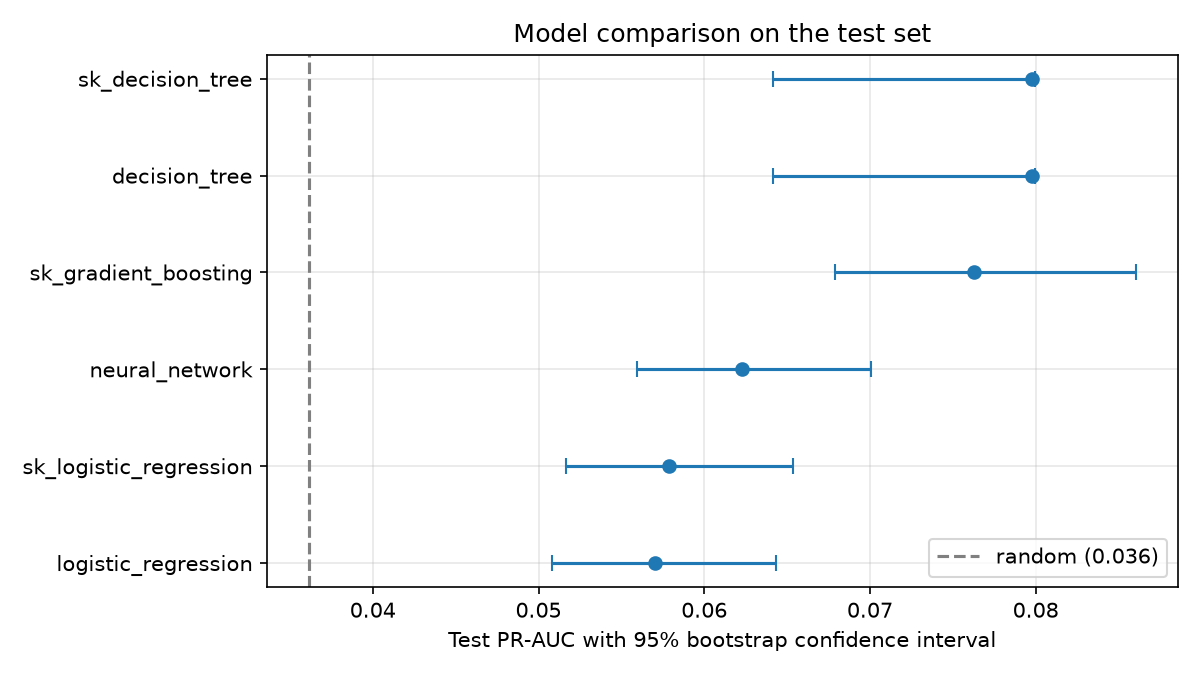
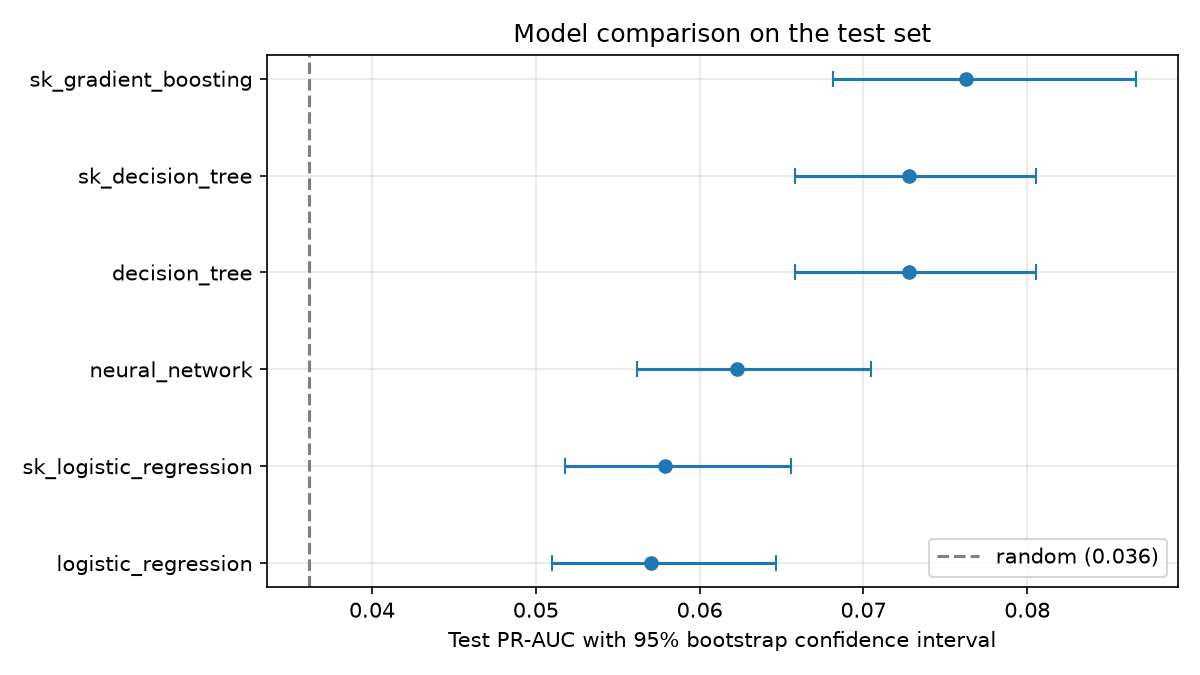
fix(metrics): tie-aware average precision; docs: evaluation report

diff --git a/src/olist_ml/evaluation/metrics.py b/src/olist_ml/evaluation/metrics.py
@@ -14,11 +14,14 @@ def roc_auc(y: np.ndarray, scores: np.ndarray) -> float:
 
 
 def average_precision(y: np.ndarray, scores: np.ndarray) -> float:
-    """Area under the precision-recall curve: mean precision at the rank of each true positive."""
-    y = np.asarray(y).astype(bool)
-    hits = y[np.argsort(-np.asarray(scores, dtype=float), kind="mergesort")]
-    precision_at_k = np.cumsum(hits) / np.arange(1, len(hits) + 1)
-    return float(precision_at_k[hits].sum() / hits.sum())
+    """Area under the precision-recall step curve: AP = sum_n (R_n - R_(n-1)) * P_n.
+
+    Computed over distinct thresholds, so tied scores are treated as one group and the
+    result does not depend on the arbitrary order of tied rows.
+    """
+    tp, fp, _, n_pos, _ = _ranked_counts(y, scores)
+    precision, recall = tp / (tp + fp), tp / n_pos
+    return float(np.sum(np.diff(np.r_[0.0, recall]) * precision))
 
 
 def precision_recall_f1(y: np.ndarray, y_pred: np.ndarray) -> tuple[float, float, float]:

diff --git a/tests/test_models.py b/tests/test_models.py
@@ -103,3 +103,9 @@ def test_logistic_regression_matches_scikit_learn():
     sk.fit(X, y, sample_weight=balanced_weights(y))
     assert np.allclose(ours.w_, sk.coef_[0], atol=1e-3)
     assert abs(ours.b_ - sk.intercept_[0]) < 1e-3
+    
+def test_average_precision_handles_ties_like_scikit_learn():
+    rng = np.random.default_rng(6)
+    y = (rng.random(1000) < 0.1).astype(int)
+    scores = np.round(rng.random(1000) + 0.3 * y, 1)   # few distinct values: many ties
+    assert np.isclose(average_precision(y, scores), average_precision_score(y, scores))

diff --git a/docs/09_evaluation.md b/docs/09_evaluation.md
@@ -1,0 +1,103 @@
+# 09 — Evaluation
+
+Script: `scripts/evaluate.py`. Files: `src/olist_ml/evaluation/evaluator.py`,
+`src/olist_ml/evaluation/metrics.py`, `src/olist_ml/models/sklearn_adapter.py`.
+Raw results: `docs/figures/evaluation_results.csv`.
+
+## Protocol
+- Models and the decision threshold are **selected on validation** (March–May 2018) and
+  reported once on **test** (June–August 2018), which is never used for any choice.
+- Uncertainty: **paired bootstrap** over the test set (1,000 resamples with replacement). The same
+  resamples are applied to every model, so the confidence interval of a *difference* between two
+  models can be computed; if it excludes 0, the difference is significant.
+- scikit-learn models are wrapped in an **Adapter** (`SklearnModel`) so they share the `BaseModel`
+  interface and are trained with the same balanced sample weights.
+
+## Verification against scikit-learn
+- Logistic regression from scratch matches scikit-learn's coefficients and intercept (tolerance 10⁻³).
+  The objectives are equal when `C = 1 / (λ·S)`, where S is the sum of sample weights.
+- The from-scratch decision tree gives exactly the same predictions as `DecisionTreeClassifier`
+  with the same depth and leaf size (identical PR-AUC and ROC-AUC on validation and test).
+- ROC-AUC and PR-AUC from scratch match scikit-learn, including data with tied scores.
+
+## A bug found by the evaluation
+The first bootstrap gave the decision tree a test PR-AUC of 0.080 with a 95% interval of
+[0.064, 0.080]: the point estimate sat exactly on the upper bound. The tree outputs only 125
+distinct scores, and the first implementation of average precision ordered tied rows by their
+position in the file, so the result depended on an arbitrary order. Average precision is now
+computed over distinct thresholds, `AP = Σₙ (Rₙ − Rₙ₋₁) Pₙ`, as in scikit-learn, and a test with
+heavily tied scores was added. The tree's corrected scores: validation 0.184 → 0.168,
+test 0.080 → 0.073.
+
+## Results
+
+| Model | Val PR-AUC | Test PR-AUC (95% CI) | Test ROC-AUC |
+|---|---:|---:|---:|
+| Random baseline | 0.101 | 0.036 | 0.500 |
+| Neural network (scratch) | **0.213** | 0.062 [0.056, 0.070] | 0.695 |
+| Gradient boosting (sklearn) | 0.195 | **0.076** [0.068, 0.087] | **0.715** |
+| Logistic regression (scratch) | 0.174 | 0.057 [0.051, 0.065] | 0.667 |
+| Logistic regression (sklearn) | 0.174 | 0.058 [0.052, 0.066] | 0.671 |
+| Decision tree (scratch) | 0.168 | 0.073 [0.066, 0.081] | 0.703 |
+| Decision tree (sklearn) | 0.168 | 0.073 [0.066, 0.081] | 0.703 |
+
+![PR-AUC with confidence intervals](figures/pr_auc_intervals.png)
+![ROC and PR curves](figures/roc_pr_curves.png)
+
+**Model selection.** Validation selects the neural network, but on test it is significantly worse
+than gradient boosting: difference −0.014, 95% CI [−0.021, −0.007], better in 0% of resamples.
+
+## Threshold and confusion matrix (selected model, test)
+The threshold maximizing F1 on validation is 0.594. On test it gives precision 0.068
+(1.9× the 3.6% base rate), recall 0.509 and F1 0.120.
+
+| | Predicted late | Predicted on time |
+|---|---:|---:|
+| **Late** | 342 (TP) | 330 (FN) |
+| **On time** | 4,706 (FP) | 13,225 (TN) |
+
+The model flags 27.1% of orders and catches 342 of 672 late orders. The threshold was chosen in a
+high-lateness period (10.1%), so it flags too many orders in the low-lateness test period (3.6%).
+
+## Error analysis (late orders in the test set)
+
+| Distance (km) | ≤250 | 250–500 | 500–1000 | 1000–2000 | >2000 |
+|---|---:|---:|---:|---:|---:|
+| Late orders | 361 | 93 | 102 | 55 | 52 |
+| Recall | 0.465 | 0.409 | 0.451 | 0.691 | 0.885 |
+
+| Customer state | SP | RJ | BA | MG | RS | PR | ES | MA |
+|---|---:|---:|---:|---:|---:|---:|---:|---:|
+| Late orders | 405 | 68 | 27 | 21 | 18 | 16 | 14 | 14 |
+| Recall | 0.464 | 0.676 | 0.704 | 0.143 | 0.444 | 0.188 | 0.429 | 1.000 |
+
+The model catches long-distance and north-eastern late orders well (88.5% beyond 2,000 km),
+but **more than half of all late orders (361 of 672) are within 250 km**, mostly in São Paulo,
+and only 46.5% of those are caught. Local delays depend on factors the features do not contain
+(carrier capacity, warehouse problems).
+
+## Ablation: removing `purchase_month`
+
+| Model | Val with | Val without | Test with | Test without |
+|---|---:|---:|---:|---:|
+| Decision tree | 0.168 | 0.181 | 0.073 | 0.040 |
+| Neural network | 0.213 | 0.214 | 0.062 | 0.073 |
+| Gradient boosting | 0.195 | 0.215 | 0.076 | 0.058 |
+
+Without the month, validation improves for all three models, while test drops sharply for the
+tree models and improves for the network. The month helps in one period and hurts in another:
+it is an **unstable feature**, as predicted in the EDA (docs/07). In the training data, summer
+2017 had few late orders, and summer 2018 happened to repeat that pattern; with only one year of
+history, this cannot be distinguished from coincidence.
+
+## Conclusions
+- All models beat the random baseline (best: 2.1× on test PR-AUC), but the signal available at
+  purchase time is weak.
+- **One validation period is not enough under distribution shift.** Validation (spring 2018,
+  10.1% late) and test (summer 2018, 3.6% late) rank the models differently, and the selected
+  model is significantly worse on test than the runner-up. The next step is rolling-origin
+  evaluation: several consecutive train/validation windows, with models and features chosen by
+  their average performance across windows.
+- Seasonal features need several years of history before they can be trusted.
+- The largest remaining error, local late deliveries, needs new data (carrier and warehouse
+  information) rather than a different model.
